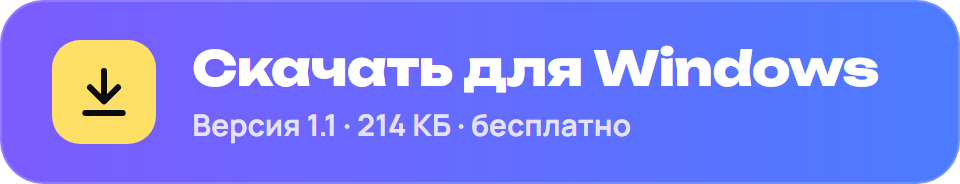
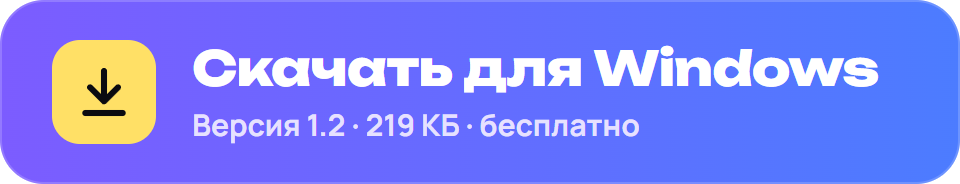
1.2: кнопка «Свернуть», короткая подпись GeoHide, новый скриншот и кнопка скачивания, README 219 КБ

Changed region(s): [[0.3125, 0.5978, 0.6875, 0.7609]]

diff --git a/docs/button.html b/docs/button.html
@@ -11,5 +11,5 @@ html,body{width:480px;height:92px;background:transparent}
 .t span{font-family:'Manrope',sans-serif;font-weight:700;font-size:15px;color:#e6e1ff;margin-top:3px}
 </style></head><body>
 <div class="b"><div class="ic"><svg width="28" height="28" viewBox="0 0 24 24" fill="none" stroke="#0b0b10" stroke-width="2.6" stroke-linecap="round" stroke-linejoin="round"><path d="M12 3v12"/><path d="M6 10l6 6 6-6"/><path d="M4 21h16"/></svg></div>
-<div class="t"><b>Скачать для Windows</b><span>Версия 1.1 · 214 КБ · бесплатно</span></div></div>
+<div class="t"><b>Скачать для Windows</b><span>Версия 1.2 · 219 КБ · бесплатно</span></div></div>
 </body></html>

diff --git a/XboxDns.cs b/XboxDns.cs
@@ -23,7 +23,7 @@ namespace HbAi.XboxDns
         // (159.194.200.33, 193.233.112.x) отвечают, но их прокси из России не открываются — убраны.
         // xbox-dns.ru с 10.10.2026 на нейросети отвечает 0.0.0.0, оставлен только для Xbox Live.
         public static readonly string[] Name = { "Comss.one", "GeoHide EU", "MagicDNS", "Astracat", "Xbox DNS" };
-        public static readonly string[] Short = { "Comss", "GeoHide EU", "MagicDNS", "Astracat", "Xbox" };
+        public static readonly string[] Short = { "Comss", "GeoHide", "MagicDNS", "Astracat", "Xbox" };
         public static readonly string[][] V4 = {
             new[] { "83.220.169.155", "212.109.195.93" },
             new[] { "143.20.64.192", "45.13.237.213" },
@@ -208,7 +208,7 @@ namespace HbAi.XboxDns
         int dnsSet;
         string error;
         float pulse;
-        Rectangle rToggle, rClose, rSite, rGroup, rBrand, rVk, rCheck, rBest;
+        Rectangle rToggle, rClose, rMin, rSite, rGroup, rBrand, rVk, rCheck, rBest;
         readonly Rectangle[] rSeg = new Rectangle[Dns.Count];
         string[] check; int checkSet = -1; bool checking; string bestNote;
         Point dragFrom;
@@ -227,6 +227,7 @@ namespace HbAi.XboxDns
             Region = RoundRegion(ClientRectangle, 22);
 
             rClose = new Rectangle(ClientSize.Width - 58, 22, 36, 36);
+            rMin = new Rectangle(ClientSize.Width - 100, 22, 36, 36);
             rToggle = new Rectangle((ClientSize.Width - 200) / 2, 196, 200, 200);
 
             anim.Interval = 30;
@@ -308,13 +309,15 @@ namespace HbAi.XboxDns
                 using (var b = new SolidBrush(Yellow)) g.FillEllipse(b, pr.X + 16, pr.Y + 12, 10, 10);
                 using (var b = new SolidBrush(Soft)) g.DrawString(pill, f, b, pr.X + 32, pr.Y + (34 - sz.Height) / 2 + 1);
             }
-            // крестик
+            // крестик и чёрточка «свернуть»
             using (var pen = new Pen(Muted, 2f))
             {
                 int c = 9;
                 var m = new Point(rClose.X + rClose.Width / 2, rClose.Y + rClose.Height / 2);
                 g.DrawLine(pen, m.X - c, m.Y - c, m.X + c, m.Y + c);
                 g.DrawLine(pen, m.X + c, m.Y - c, m.X - c, m.Y + c);
+                var n = new Point(rMin.X + rMin.Width / 2, rMin.Y + rMin.Height / 2);
+                g.DrawLine(pen, n.X - c, n.Y + 4, n.X + c, n.Y + 4);
             }
 
             // заголовок
@@ -496,6 +499,7 @@ namespace HbAi.XboxDns
         {
             if (e.Button != MouseButtons.Left) return;
             if (rClose.Contains(e.Location)) { Close(); return; }
+            if (rMin.Contains(e.Location)) { WindowState = FormWindowState.Minimized; return; }
             if (rGroup.Contains(e.Location)) { Open("https://vk.com/neiroseti_ai"); return; }
             if (rSite.Contains(e.Location)) { Open(Dns.Url[dnsSet]); return; }
             if (rBrand.Contains(e.Location) || rVk.Contains(e.Location)) { Open("https://vk.com/neiroseti_ai"); return; }
@@ -513,7 +517,7 @@ namespace HbAi.XboxDns
         {
             var c = new Point(rToggle.X + rToggle.Width / 2, rToggle.Y + rToggle.Height / 2);
             double dx = e.X - c.X, dy = e.Y - c.Y;
-            bool hand = rClose.Contains(e.Location) || rGroup.Contains(e.Location) || rSite.Contains(e.Location) || rBrand.Contains(e.Location) || rVk.Contains(e.Location) || rSeg.Any(r => r.Contains(e.Location)) || rCheck.Contains(e.Location) || rBest.Contains(e.Location)
+            bool hand = rClose.Contains(e.Location) || rMin.Contains(e.Location) || rGroup.Contains(e.Location) || rSite.Contains(e.Location) || rBrand.Contains(e.Location) || rVk.Contains(e.Location) || rSeg.Any(r => r.Contains(e.Location)) || rCheck.Contains(e.Location) || rBest.Contains(e.Location)
                         || dx * dx + dy * dy <= rToggle.Width * rToggle.Width / 4.0;
             Cursor = hand && !busy ? Cursors.Hand : Cursors.Default;
             if (e.Button == MouseButtons.Left && !hand)
